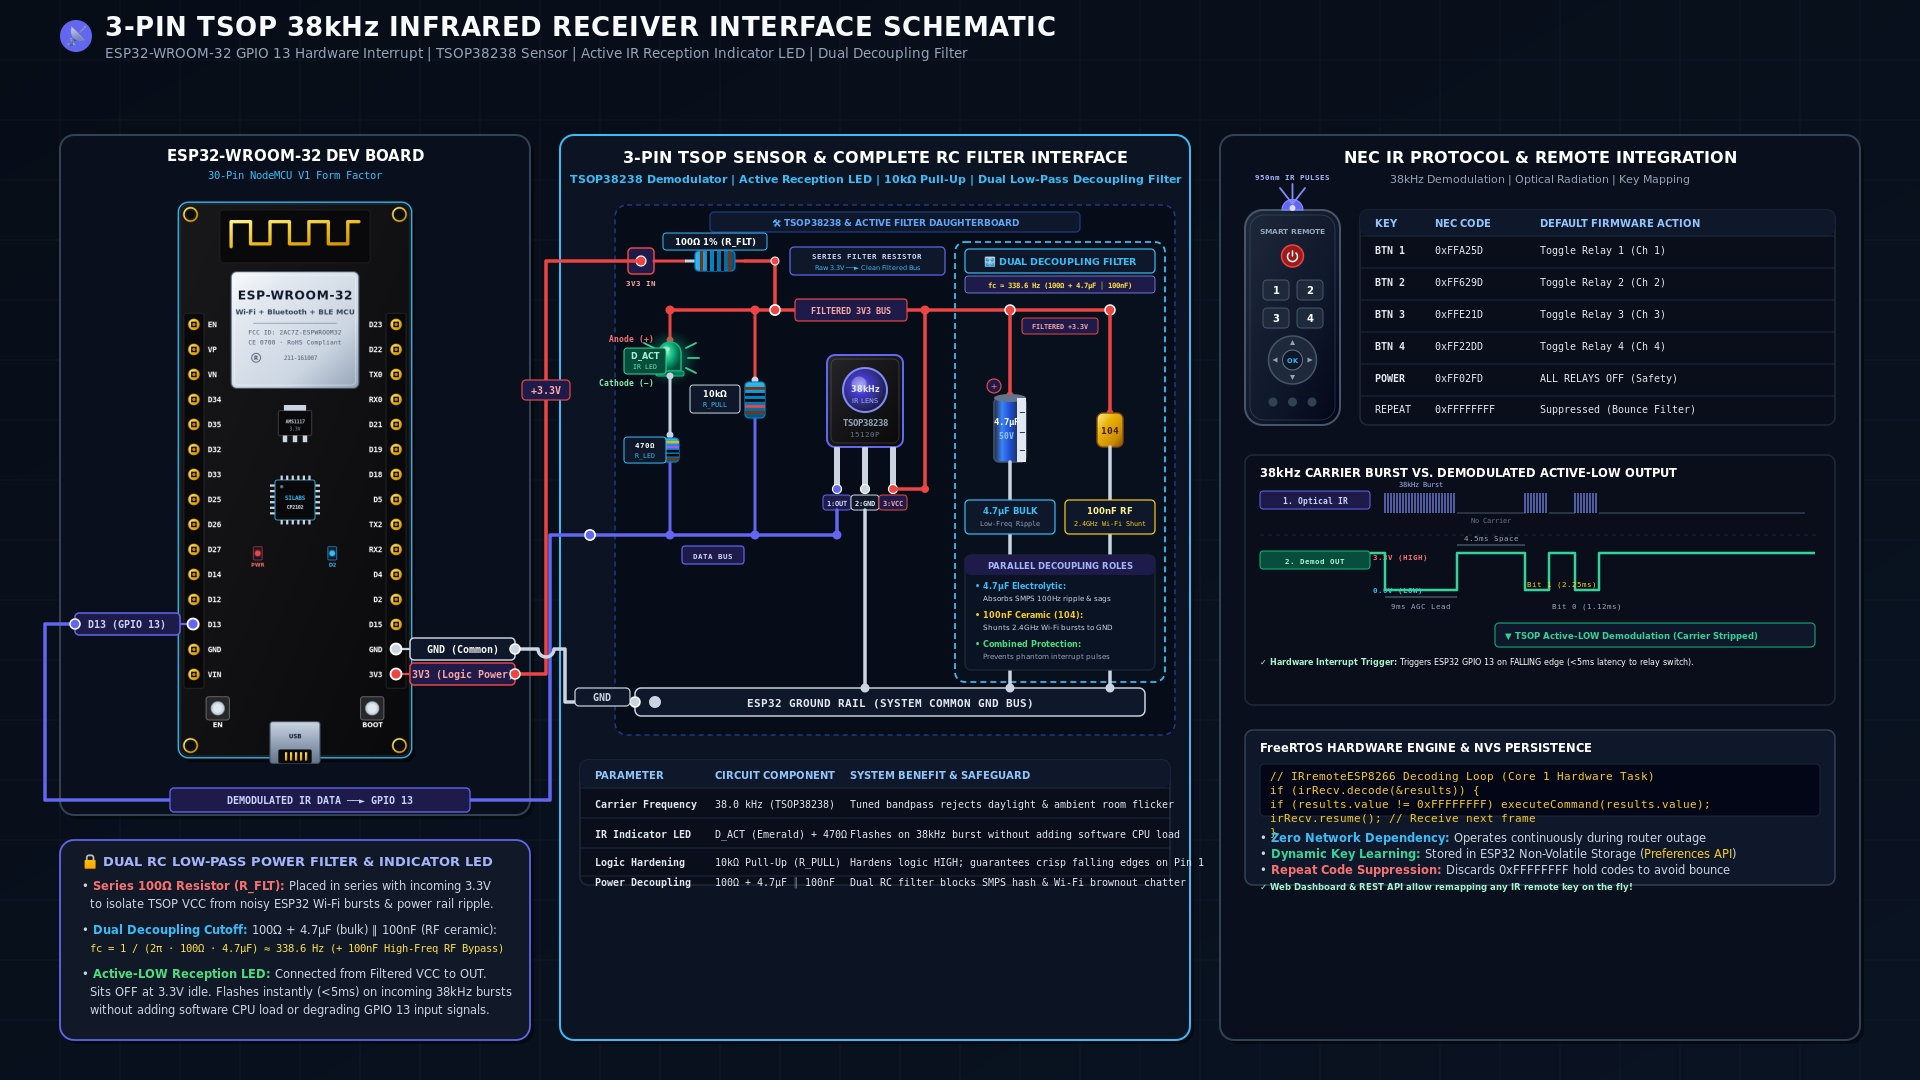
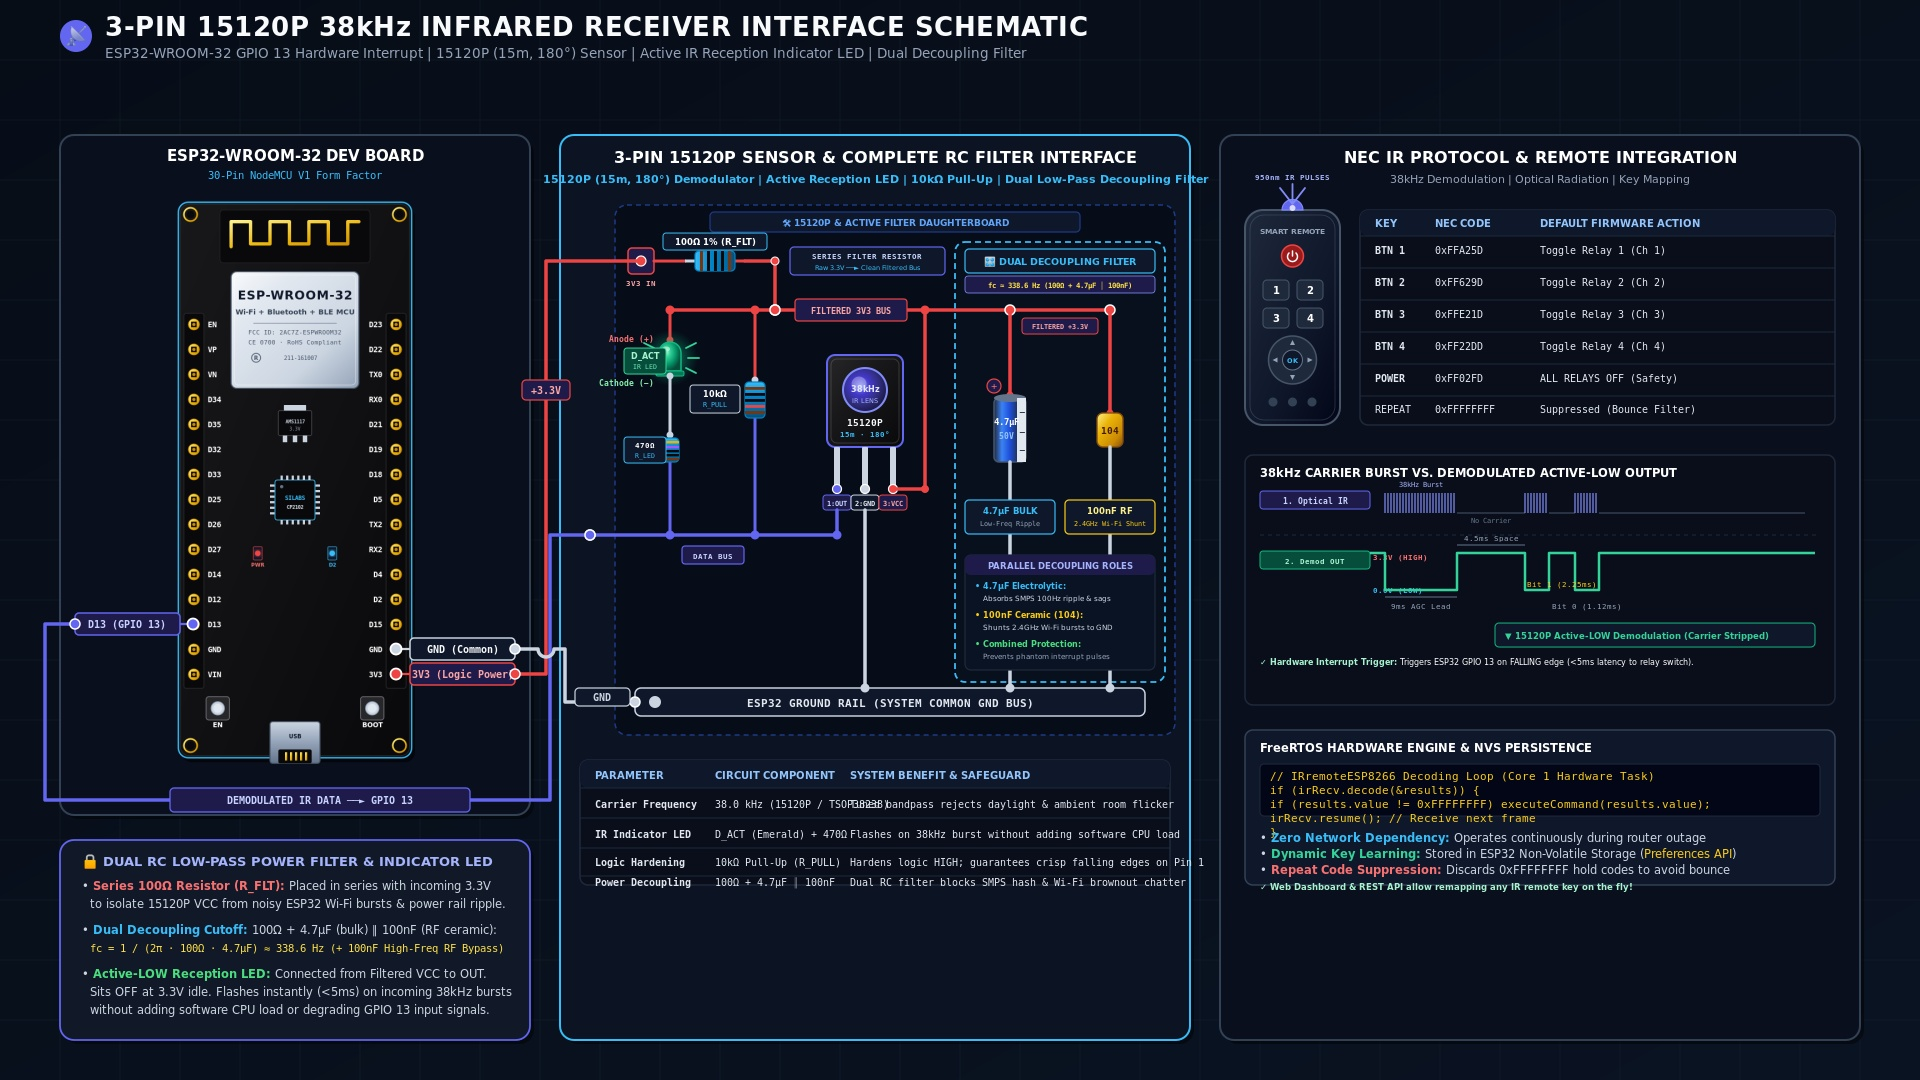
renamed TSOP IR led

diff --git a/firmware/pins.h b/firmware/pins.h
@@ -61,7 +61,7 @@
 // -----------------------------------------------------------------------------
 // 4. Sensors
 // -----------------------------------------------------------------------------
-// Infrared Receiver (TSOP38238 / 15120P, 38kHz demodulated Active-LOW stream)
+// Infrared Receiver (15120P 15m 180° / TSOP38238 compatible, 38kHz demodulated Active-LOW stream)
 #define PIN_IR_RECV         13    // IR Data Input (Left Pin 13)
 
 // Ambient Light Sensor (LDR Voltage Divider on ADC1 Channel 6)

diff --git a/docs/PINOUT_AND_SCHEMATICS.md b/docs/PINOUT_AND_SCHEMATICS.md
@@ -12,7 +12,7 @@ The **Advanced IoT Home Automation System** is an industrial-grade, edge-resilie
 | **Edge Autonomy** | Zero-latency local switching without reliance on Wi-Fi, routers, or servers. | Dedicated hardware interrupt / tight polling loop running on ESP32 Core 1. |
 | **Physical Feedback** | Visual confirmation of active circuits and system state. | 4 status LEDs mapped 1:1 to relay channels, auto-dimmed via hardware PWM. |
 | **Ambient Adaptation** | Non-intrusive nighttime illumination. | LDR sensor on ADC1 measuring ambient lux and adjusting LED brightness via EMA filter. |
-| **Wireless Input** | Secondary local wireless line-of-sight control (up to 15m range). | 3-Pin TSOP 38kHz IR Receiver (15120P / TSOP38238) decoding NEC/RC5 protocols. |
+| **Wireless Input** | Secondary local wireless line-of-sight control (up to 15m range). | 3-Pin 15120P 38kHz IR Receiver (15m, 180° FOV; TSOP38238-compatible) decoding NEC/RC5 protocols. |
 | **Power-Cut Recovery** | Restore previous operational states after grid power failure. | Persistent state storage in ESP32 Non-Volatile Storage (NVS / Preferences API). |
 | **System Diagnostics** | Hard reboot and network reconfiguration. | Dedicated external button (short press = reboot; hold 5s = Wi-Fi config AP mode). |
 | **Network Interfaces** | Local browser UI, REST API, MQTT telemetry, and Raspberry Pi CLI. | Dual-core FreeRTOS task on Core 0 running HTTP server, WebSockets, and MQTT client. |
@@ -47,7 +47,7 @@ The **Advanced IoT Home Automation System** is an industrial-grade, edge-resilie
      Relay 3 (GPIO27) | [ ]           [ ] | RX2 (Button 4 - GP16)
      Relay 4 (GPIO14) | [ ]           [ ] | D4  (Status LED 1 - GP4)
    Power LED (GPIO12) | [ ]           [ ] | D2  (Wi-Fi Status LED - GP2)
-  TSOP IR RX (GPIO13) | [ ]           [ ] | D15 (Status LED 2 - GP15)
+  15120P IR RX (GP13) | [ ]           [ ] | D15 (Status LED 2 - GP15)
                   GND | [ ]           [ ] | GND
                   VIN | [ ]           [ ] | 3V3
                       +-------------------+
@@ -65,7 +65,7 @@ The **Advanced IoT Home Automation System** is an industrial-grade, edge-resilie
 | **GPIO 33** | Left Pin 7  | Output | **Status LED 4** | LEDC PWM (Ch 3) | $220\Omega$ resistor; mirrors Relay 4 (PWM auto-dimmed) |
 | **GPIO 12** | Left Pin 12 | Output | **Power Indicator LED** | LEDC PWM (Ch 4) | $330\Omega$ resistor to GND; **PWM auto-dimmed** (*MTDI safe pull-down*) |
 | **GPIO 2**  | Right Pin 12| Output | **Wi-Fi Status LED** | LEDC PWM (Ch 5) | On-board Blue LED (or external); **PWM auto-dimmed** |
-| **GPIO 13** | Left Pin 13 | Input  | **TSOP 38kHz IR RX** | Digital In / INT | Demodulated Active-LOW pulse stream from TSOP38238 |
+| **GPIO 13** | Left Pin 13 | Input  | **15120P 38kHz IR RX** | Digital In / INT | Demodulated Active-LOW pulse stream from 15120P (15m, 180° FOV) |
 | **GPIO 34** | Left Pin 4  | Input  | **LDR Ambient Sensor**| ADC1_CH6 | Analog voltage divider (ADC1 operates concurrently with Wi-Fi) |
 | **GPIO 35** | Left Pin 5  | Input  | **Button 1 (Manual)** | Digital In (GPI) | Momentary to GND + **External $10\text{k}\Omega$ pull-up to 3.3V** |
 | **GPIO 36** | Left Pin 2 (VP)| Input | **Button 2 (Manual)** | Digital In (GPI) | Momentary to GND + **External $10\text{k}\Omega$ pull-up to 3.3V** |
@@ -153,7 +153,7 @@ When driving inductive loads (fans, fluorescent ballasts, refrigerator compresso
 
 ---
 
-### 3.4 3-Pin TSOP 38kHz IR Receiver (15120P / TSOP38238) Interface Module
+### 3.4 3-Pin 15120P 38kHz IR Receiver (15-Meter 180°) Interface Module
 ```
        ESP32 Pin 3V3 (Raw +3.3V Logic Supply from ESP32 LDO/DC-DC)
                       │
@@ -166,9 +166,9 @@ When driving inductive loads (fans, fluorescent ballasts, refrigerator compresso
          │                     │                    │                        │                      │
          │                     │                    ▼ (Pin 3: VCC)           ▼                      ▼ (Anode +)
        +─┴─+                  ─┴─           ┌───────────────┐          ┌───────────┐          ┌───────────┐
-       │4.7│ C_FLT            ─── C_BYP     │   TSOP38238   │          │  10kΩ 1%  │          │   D_ACT   │ Emerald Green
+       │4.7│ C_FLT            ─── C_BYP     │    15120P     │          │  10kΩ 1%  │          │   D_ACT   │ Emerald Green
        │ µF│ Bulk              │  100nF     │ 38kHz IR RCVR │          │  (R_PULL) │          │  IR LED   │ Reception LED
-       └─┬─┘ Low-Freq          │  Ceramic   │  15120P Opto  │          │  Pull-Up  │          └─────┬─────┘
+       └─┬─┘ Low-Freq          │  Ceramic   │ 15m 180° Opto │          │  Pull-Up  │          └─────┬─────┘
          │   Ripple            │  RF Bypass └───┬───────┬───┘          └─────┬─────┘                │ (Cathode -)
          │   (100Hz)           │  (2.4GHz)      │       │                    │                ┌─────┴─────┐
          │                     │         (Pin 2)│       │ (Pin 1: OUT)       │                │  470Ω 1%  │ Current Limiter
@@ -183,15 +183,15 @@ When driving inductive loads (fans, fluorescent ballasts, refrigerator compresso
 ```
 * **Single Power Rail Flow (Raw vs. Clean Filtered +3.3V):**
   * **Raw +3.3V Supply (`ESP32 Pin 3V3`):** Unfiltered digital system rail powering the ESP32 chip and Wi-Fi radio; carries heavy 2.4GHz Wi-Fi switching spikes and SMPS DC-DC converter ripple.
-  * **Series Resistor ($R_{\text{FLT}} = 100\Omega$):** Acts as the series impedance element of the low-pass filter, dropping AC high-frequency ripple voltage while causing negligible DC voltage drop ($<0.05\text{V}$ given TSOP's tiny $0.35\text{mA}$ typical quiescent current draw).
-  * **Clean Filtered +3.3V Rail:** The single, noise-isolated power rail downstream of $R_{\text{FLT}}$ that powers the TSOP optical preamplifier (Pin 3), the $10\text{k}\Omega$ pull-up resistor ($R_{\text{PULL}}$), and the $D_{\text{ACT}}$ reception indicator LED.
+  * **Series Resistor ($R_{\text{FLT}} = 100\Omega$):** Acts as the series impedance element of the low-pass filter, dropping AC high-frequency ripple voltage while causing negligible DC voltage drop ($<0.05\text{V}$ given 15120P's tiny $0.35\text{mA}$ typical quiescent current draw).
+  * **Clean Filtered +3.3V Rail:** The single, noise-isolated power rail downstream of $R_{\text{FLT}}$ that powers the 15120P optical preamplifier (Pin 3), the $10\text{k}\Omega$ pull-up resistor ($R_{\text{PULL}}$), and the $D_{\text{ACT}}$ reception indicator LED.
 * **Dual Decoupling Filter ($100\Omega + 4.7\mu\text{F} \parallel 100\text{nF}$):** Forms an RC low-pass filter with cutoff frequency $f_c = \frac{1}{2\pi \cdot R \cdot C_{\text{tot}}} \approx 338.6\text{ Hz}$, eliminating false interrupt triggers on GPIO 13:
   * **$C_{\text{FLT}}$ ($4.7\mu\text{F}$ Electrolytic Bulk):** Absorbs low-frequency $100\text{Hz}$ switching ripple and momentary supply dips caused by relay coils or LED transitions.
-  * **$C_{\text{BYP}}$ ($100\text{nF}$ Ceramic RF Bypass):** Placed in close physical proximity (<5mm) to TSOP Pin 3 and Pin 2 to shunt high-frequency $2.4\text{ GHz}$ Wi-Fi RF burst hash to ground.
-* **Active-LOW Reception Indicator LED ($D_{\text{ACT}}$):** Connected between Clean Filtered 3.3V and OUT via a $470\Omega$ current-limiting resistor ($R_{\text{LED}}$). Sits OFF during idle (both sides at 3.3V); flashes instantly (<5ms) on incoming 38kHz bursts when the TSOP internal photodiode/preamplifier sinks Pin 1 to 0V.
+  * **$C_{\text{BYP}}$ ($100\text{nF}$ Ceramic RF Bypass):** Placed in close physical proximity (<5mm) to 15120P Pin 3 and Pin 2 to shunt high-frequency $2.4\text{ GHz}$ Wi-Fi RF burst hash to ground.
+* **Active-LOW Reception Indicator LED ($D_{\text{ACT}}$):** Connected between Clean Filtered 3.3V and OUT via a $470\Omega$ current-limiting resistor ($R_{\text{LED}}$). Sits OFF during idle (both sides at 3.3V); flashes instantly (<5ms) on incoming 38kHz bursts when the 15120P internal photodiode/preamplifier sinks Pin 1 to 0V.
 * **10kΩ Pull-Up ($R_{\text{PULL}}$):** Hardens the logic HIGH state against line capacitance and prevents Wi-Fi RF pickup on long sensor leads.
-#### Dedicated 3-Pin TSOP 38kHz IR Receiver & Active Filter Schematic:
-![3-Pin TSOP 38kHz IR Receiver Schematic Diagram](images/ir_receiver_schematic.jpg)
+#### Dedicated 3-Pin 15120P 38kHz IR Receiver & Active Filter Schematic:
+![3-Pin 15120P 38kHz IR Receiver Schematic Diagram](images/ir_receiver_schematic.jpg)
 
 ---
 

diff --git a/README.md b/README.md
@@ -54,7 +54,7 @@ The system is split across two computing nodes: your **Raspberry Pi Server** (fo
 | **Status LED 4** | `GPIO 33` | Left Pin 7 | LEDC PWM (Ch 3) | 220Ω resistor; mirrors Relay 4 (PWM auto-dimmed via LDR) |
 | **Power Indicator LED** | `GPIO 12` | Left Pin 12 | LEDC PWM (Ch 4) | 330Ω to GND; Always ON (*MTDI 3.3V flash boot-safe*, auto-dimmed) |
 | **Wi-Fi Status LED** | `GPIO 2` | Right Pin 12 | LEDC PWM (Ch 5) | On-board Blue LED (Solid connected / Breathing AP / Auto-dimmed) |
-| **TSOP 38kHz IR RX** | `GPIO 13` | Left Pin 13 | Digital In / INT | 38kHz IR demodulator (TSOP38238 / 15120P) + Active LED indicator |
+| **15120P 38kHz IR RX** | `GPIO 13` | Left Pin 13 | Digital In / INT | 38kHz IR demodulator (15120P 15m 180° / TSOP38238 compatible) + Active LED indicator |
 | **Ambient LDR Sensor** | `GPIO 34` | Left Pin 4 | ADC1_CH6 | 10kΩ voltage divider (ADC1 operates concurrently with Wi-Fi) |
 | **[RESERVED] I2C SDA** | `GPIO 21` | Right Pin 5 | Hardware I2C | Native Wire Data line for OLED displays, RTC, sensors |
 | **[RESERVED] I2C SCL** | `GPIO 22` | Right Pin 2 | Hardware I2C | Native Wire Clock line |
